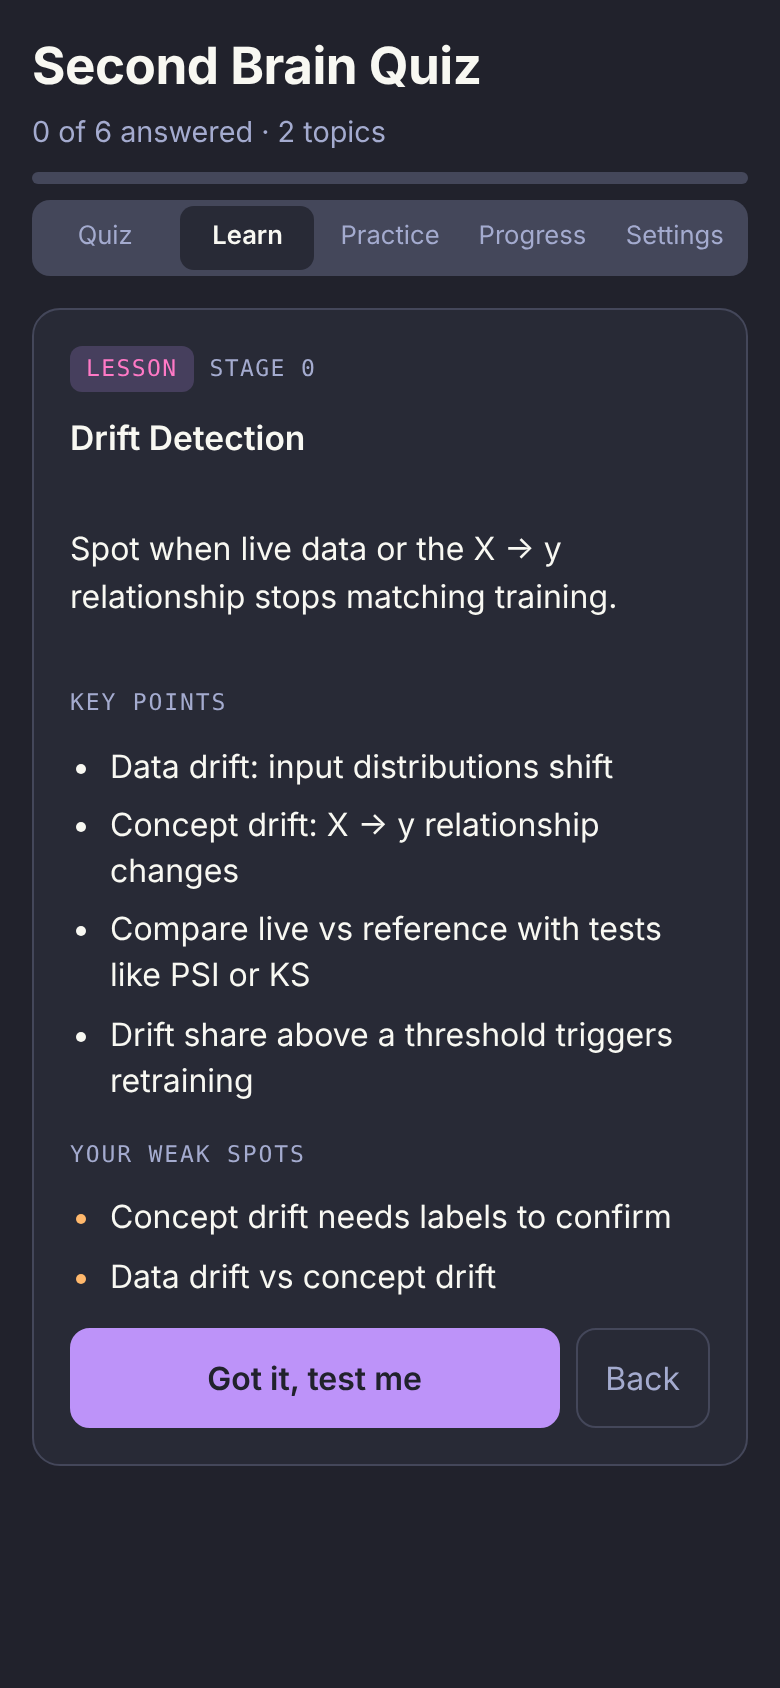
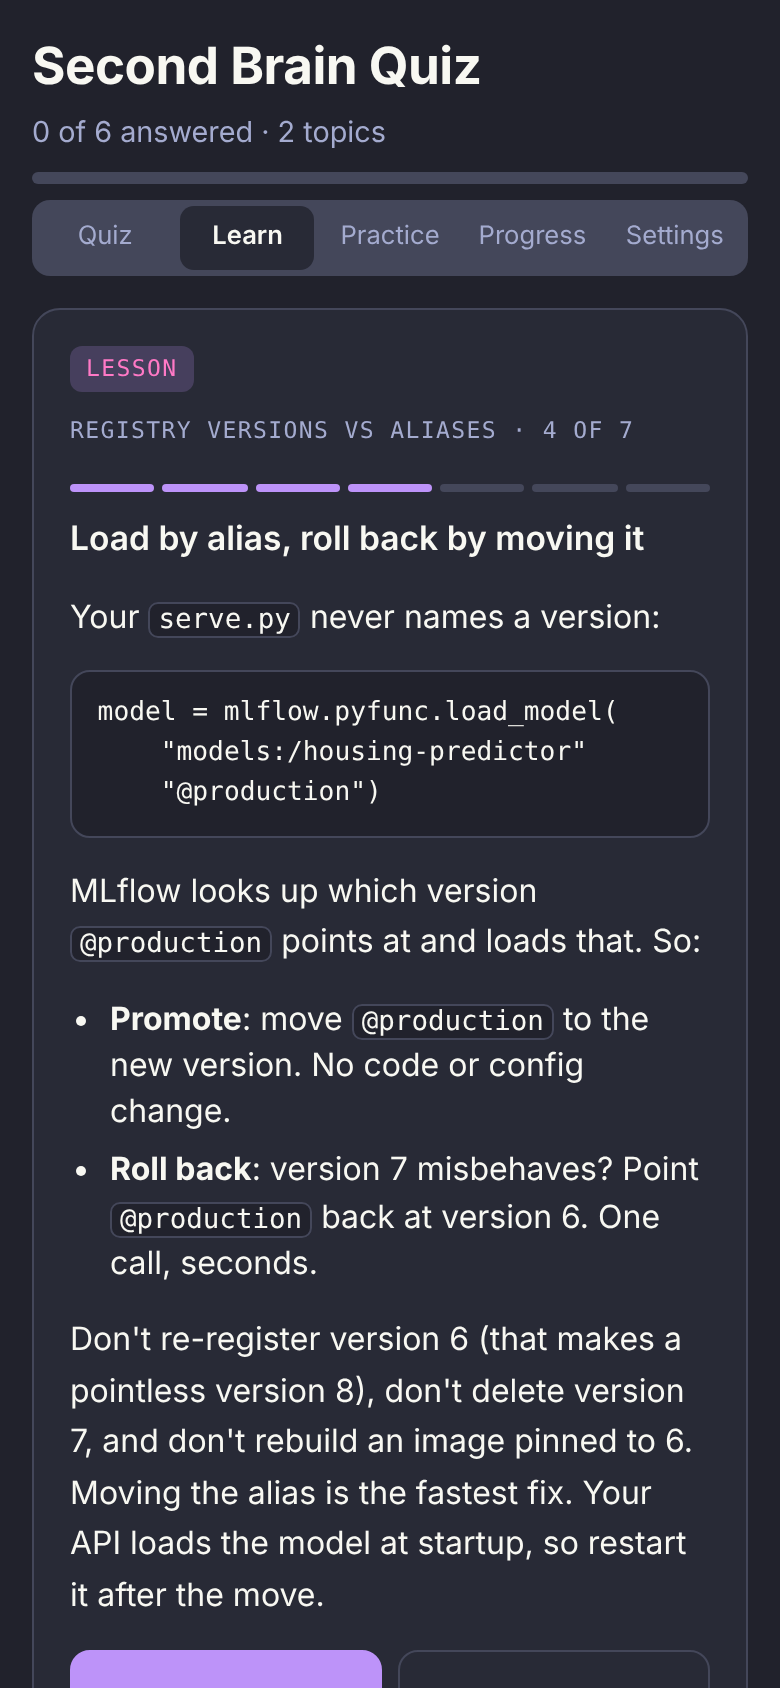
1.13.0: step-by-step lessons in Learn, lessons operation, equal buttons, prompts updated
Claude-Session: https://claude.ai/code/session_01EMdQBoW5wE4vVuz75Yu5Xb

Changed region(s): [[0.0923, 0.2156, 0.8923, 1.0]]

diff --git a/quiz/quiz.html b/quiz/quiz.html
@@ -158,9 +158,13 @@ textarea{font:inherit;width:100%;box-sizing:border-box;min-height:120px;border-r
 .lesson ul{margin:0;padding-left:20px;display:flex;flex-direction:column;gap:6px;line-height:1.45}
 .lesson h3{font:500 .72rem/1 var(--mono);letter-spacing:.08em;text-transform:uppercase;color:var(--muted);margin:6px 0 0}
 .lesson .weak li::marker{color:var(--warn)}.lesson .weak li{color:var(--ink)}
+.lesson p,.lesson li{overflow-wrap:anywhere}.lesson p{margin:0;line-height:1.6}.lesson ol{margin:0;padding-left:22px;display:flex;flex-direction:column;gap:6px;line-height:1.45}
+.lesson b{color:var(--ink)}.lesson .ic{font:.86em var(--mono);background:var(--bg);border:1px solid var(--line);border-radius:5px;padding:0 4px}
+.steps{display:flex;gap:4px}.steps i{flex:1;height:4px;border-radius:2px;background:var(--line)}.steps i.on{background:var(--accent)}
 .dots{display:flex;gap:6px;align-items:center;font:500 .72rem/1 var(--mono);color:var(--muted);letter-spacing:.06em;text-transform:uppercase}
 .dots i{width:10px;height:10px;border-radius:50%;background:var(--line)}.dots i.on{background:var(--good)}
-.row .ghost{min-height:36px;padding:6px 12px}
+.actions>button{flex:1 1 0;min-width:0;text-align:center}   /* every button in a row is the same size */
+.row>button{flex:0 0 88px;min-height:40px;padding:8px 10px;text-align:center}
 .tiles{display:grid;grid-template-columns:repeat(3,1fr);gap:8px}
 .tile{background:var(--surface);border:1px solid var(--line);border-radius:12px;padding:12px;display:flex;flex-direction:column;gap:6px;min-width:0}
 .tile b{font:700 1.5rem/1 var(--display);font-variant-numeric:tabular-nums}
@@ -614,7 +618,7 @@ tabBtns.forEach(b => b.onclick = () => showTab(b.dataset.t));
 showTab("quiz");
 
 // ---------- Practice: one question at a time, swap animation, hard mode, icon ----------
-const VERSION = "1.11.0";
+const VERSION = "1.13.0";
 document.getElementById("version").textContent = `Second Brain Kit v${VERSION}`;
 const ICONS = ["🧠", "🦉", "🐉", "🚀", "⚡", "🔥", "🐺", "🦊", "🐙", "🤖", "🛰", "🗝"];
 let POOL = [], bag = [], pfilter = "all", combo = 0, practiceStarted = false, current = null, hard = false;
@@ -785,7 +789,54 @@ function openLesson(page) {
   lessonOpen = page; lstreak = 0; lused = new Set();
   showLesson(L);
 }
+// Tiny markdown → DOM (no innerHTML): paragraphs, - and 1. lists, ``` code, **bold**, `code`
+function inline(s) {
+  const f = document.createDocumentFragment();
+  s.split(/(\*\*[^*]+\*\*|`[^`]+`)/).forEach(p => {
+    if (!p) return;
+    if (p.startsWith("**") && p.endsWith("**")) f.append(el("b", null, p.slice(2, -2)));
+    else if (p.startsWith("`") && p.endsWith("`")) f.append(el("code", "ic", p.slice(1, -1)));
+    else f.append(p);
+  });
+  return f;
+}
+function md(body) {
+  const out = document.createDocumentFragment(), lines = body.split("\n");
+  let para = [], list = null;
+  const flush = () => { if (para.length) { const p = el("p"); p.append(inline(para.join(" "))); out.append(p); para = []; } list = null; };
+  for (let i = 0; i < lines.length; i++) {
+    const l = lines[i];
+    if (l.startsWith("```")) { flush(); const code = []; while (++i < lines.length && !lines[i].startsWith("```")) code.push(lines[i]); out.append(el("pre", "code", code.join("\n"))); continue; }
+    const m = l.match(/^\s*(-|\d+\.)\s+(.*)$/);
+    if (m) {
+      if (para.length) flush();
+      const tag = m[1] === "-" ? "ul" : "ol";
+      if (!list || list.tagName.toLowerCase() !== tag) { list = el(tag); out.append(list); }
+      const li = el("li"); li.append(inline(m[2])); list.append(li); continue;
+    }
+    if (!l.trim()) { flush(); continue; }
+    list = null; para.push(l.trim());
+  }
+  flush(); return out;
+}
+const stepsOf = m => m.split(/^### /m).map(s => s.trim()).filter(Boolean).map(s => { const nl = s.indexOf("\n"); return { h: nl < 0 ? s : s.slice(0, nl), body: nl < 0 ? "" : s.slice(nl + 1) }; });
+function showStep(L, i) {
+  const S = stepsOf(L.m), s = S[i], c = el("section", "card lesson");
+  const meta = el("div", "meta"); meta.append(el("span", "chip", "Lesson"), el("span", "chip plain", `${L.t} · ${i + 1} of ${S.length}`));
+  const bar = el("div", "steps"); S.forEach((_, k) => bar.append(el("i", k <= i ? "on" : "")));
+  c.append(meta, bar, el("h2", "topic", s.h), md(s.body));
+  if (i === S.length - 1 && L.w?.length) {
+    const u = el("ul", "weak"); L.w.map(x => x.replace(/^\((practice|learn)\)\s*/, "")).forEach(x => u.append(el("li", null, x)));
+    c.append(el("h3", null, "Your weak spots"), u);
+  }
+  const last = i === S.length - 1;
+  const go = el("button", "primary", last ? "Test me" : "Next"); go.onclick = () => last ? check(L) : showStep(L, i + 1);
+  const back = el("button", "ghost", "Back"); back.onclick = () => i ? showStep(L, i - 1) : renderLearn();
+  const row = el("div", "actions"); row.append(go, back); c.append(row);
+  document.getElementById("learnView").replaceChildren(c); window.scrollTo(0, 0);
+}
 function showLesson(L) {
+  if (L.m) return showStep(L, 0);
   const c = el("section", "card lesson");
   const meta = el("div", "meta"); meta.append(el("span", "chip", "Lesson"), el("span", "chip plain", `Stage ${stageOf(L.p)}`));
   c.append(meta, el("h2", "topic", L.t));

diff --git a/template/.sync/test_sync.py b/template/.sync/test_sync.py
@@ -104,7 +104,9 @@ with tempfile.TemporaryDirectory() as d:
     # Learn tab: lesson = summary + key bullets + weak spots, shipped with the bank; learn answers act like practice
     from sync import lesson
     L = lesson("---\nx: 1\n---\n\n# T\n\nOne line summary with [[Link|alias]].\n\n- `a` first\n- second\n\n## Weak spots\n- 2026-10-11: gap one\n- 2026-10-12: (practice) gap two\n\n## My notes\n")
-    assert L == {"s": "One line summary with alias.", "k": ["a first", "second"], "w": ["gap one", "(practice) gap two"]}, L
+    assert L == {"s": "One line summary with alias.", "k": ["a first", "second"], "w": ["gap one", "(practice) gap two"], "m": ""}, L
+    L2 = lesson("# T\n\nsum\n\n## Lesson\n\n### Step one\nText.\n```py\nx = 1\n```\n\n### Step two\nMore.\n\n## Weak spots\n")
+    assert L2["m"].startswith("### Step one") and L2["m"].endswith("More.") and "Weak" not in L2["m"], L2
     assert json.loads((Path(d) / "bank_out" / files[0]).read_text())["topics"][0]["l"]["w"][:2] == ["gap1", "gap2"]
     lr = {"id": "l-1", "version": 1, "data": {"mode": "learn", "page": "wiki/tech/Topic A.md", "verdict": "wrong", "missing": ["learned gap"]}}
     run(v, {**queued, "answers": [lr]}, dt.datetime(2026, 10, 12, 12, 20))

diff --git a/template/.sync/sync.py b/template/.sync/sync.py
@@ -99,7 +99,8 @@ def lesson(text):
     keys = [clean(l[1:]) for l in lines if l.startswith("-")][:6]
     w = re.search(r"^## Weak spots\n(.*?)(?=^## |\Z)", text, re.M | re.S)
     weak = [clean(re.sub(r"^-\s*(\d{4}-\d\d-\d\d:\s*)?", "", l)) for l in (w.group(1) if w else "").splitlines() if l.strip().startswith("-")]
-    return {"s": summary, "k": keys, "w": list(dict.fromkeys(weak))[-5:]}
+    ls = re.search(r"^## Lesson\n(.*?)(?=^## |\Z)", text, re.M | re.S)     # full lesson: ### steps, written once per page
+    return {"s": summary, "k": keys, "w": list(dict.fromkeys(weak))[-5:], "m": ls.group(1).strip() if ls else ""}
 
 
 def entry(text, p, rel, sets):

diff --git a/template/CLAUDE.md b/template/CLAUDE.md
@@ -65,6 +65,9 @@ One-line purpose.
 
 (bullets / numbered steps — concrete, no prose walls)
 
+## Lesson
+(Learn-tab lesson: 4–7 `### ` steps that teach the topic from zero — see §6 lessons)
+
 ## Weak spots
 - what [Your name] got wrong + date (Claude-maintained; quiz targets these first)
 
@@ -108,6 +111,7 @@ After each page is quizzed:
    - Never ask about code the learner can't see ("in your serve.py…"). Either add a `code` field with the snippet (≤10 lines, ≤40 chars wide so it fits a phone) or make the question general. No trivia (ports, file paths, README steps)
    - every question also has `answer` (model answer) + `points` (key points, `points[0]` = core idea) for the optional "Write answers" mode
    - target weak spots first
+   - then write the page's `## Lesson` (see **lessons** below)
 6. **Day-0 check now:** one `teach` question per new concept in chat. Gaps → weak spots.
 7. Pure facts (vocab, ports, flags) → also Anki cards.
 8. Update `_index.md` files, append `log.md`.
@@ -138,12 +142,20 @@ Scoring (in sync.py): correct 1, partial 0.5, wrong 0 → avg ≥0.8 pass, ≥0.
 For material learned before the vault existed (course notes, a project repo, old chats) or files dropped in `raw/inbox/`.
 1. **Scan, don't write yet.** Read the source (READMEs, notes, code structure, tests, configs — skip lockfiles, data, vendored code). Propose a topic list: concept-sized (one idea per page), grouped, max ~25 per batch. Skip topics already in a `_index.md`.
 2. **Self-rate (one form):** per topic → *know it* / *shaky* / *skip*. Brand-new topics → suggest `/ingest` instead (recall works better when fresh).
-3. **Write in batches of 5:** concept page + question bank per topic (same format as ingest). When the source is the user's own project, make `apply` questions about THEIR code ("In your <project>, why does X…?"). Link pages to a `wiki/sources/` page for the project.
+3. **Write in batches of 5:** concept page + `## Lesson` + question bank per topic (same format as ingest). When the source is the user's own project, make `apply` questions about THEIR code, with the snippet in `code`. Link pages to a `wiki/sources/` page for the project.
 4. **Starting point:** *know it* → `stage: 2`, *shaky* → `stage: 0`.
 5. **Stagger reviews:** max 3 new topics due per day (shaky first), `next_review` spread over the following days, so the phone queue never floods.
 6. Publish banks for Practice (see below). Move processed `raw/inbox/` files to `raw/`. Update `_index.md` files, one `log.md` entry (`import | <source>: N topics`).
 
 **Publish banks for Practice** (after writing or changing question banks here): `python3 .sync/sync.py . --export-bank .sync/bank_out`, stage those files, then one ArtifactData `batch` of `set` writes to collection `bank` (doc id = file name without .json) using `file_path` — add `if_version` for shards that already exist (list `bank` with `out_dir` to get versions). Never paste the JSON by hand.
+
+### lessons  ("write lessons", or any `review: true` page without `## Lesson`; also part of ingest/import)
+The Learn tab teaches weak topics from the page's `## Lesson` (placed after the intro bullets, before `## Weak spots`). It must TEACH someone meeting the topic for the first time, on a phone, in 3–5 minutes. Not recall bullets.
+- **Format:** `## Lesson`, then 4–7 steps, each `### <short heading>` = one phone screen (~60–130 words + optional code). Only paragraphs, `- ` / `1. ` lists, fenced code with a language, **bold**, `inline code`. No tables, links, images or other headings.
+- **Code:** ≤12 lines, ≤40 chars per line (wrap by hand so it stays valid), `...` to elide. Quote the learner's REAL code (read the source repo); if there is none, a small realistic example labelled "for example". Never present invented code as theirs.
+- **Shape:** the problem (what breaks without it, a concrete scenario) → the idea (plain words, one analogy only if it helps) → how it works in their code, line by line → more detail as needed → gotchas (use the page's `## Weak spots`) → recap (3–4 bullets, key terms **bold**).
+- Explain every term on first use (assume DevOps background, new to the domain). Short sentences, no filler. Must cover everything the page's question bank asks. Accuracy over flourish.
+- After writing or changing lessons, publish banks for Practice (lessons travel with the bank; reading them costs no tokens).
 
 ### refresh banks  ("refresh banks", or when a sync reports refresh_bank / needs_bank)
 For each flagged page: write 1–2 new question sets (same format, all with options), targeting `## Weak spots` first, and append them to the page's question bank. Never edit sets already used.

diff --git a/README.md b/README.md
@@ -11,7 +11,7 @@ Built on Karpathy's "LLM wiki" idea and the CoderCo *Learn it so it sticks* meth
   <img src="docs/screenshots/4-results.png" width="23%" alt="Results screen showing where each topic moves on the ladder">
 </p>
 <p align="center">
-  <img src="docs/screenshots/8-learn.png" width="23%" alt="Learn tab: a short lesson for a weak topic with key points and your weak spots">
+  <img src="docs/screenshots/8-learn.png" width="23%" alt="Learn tab: a step-by-step lesson with real code, 4 of 7">
   <img src="docs/screenshots/5-progress.png" width="23%" alt="Progress tab: streak, level and XP, activity heatmap, mastery by ladder step, Sync now">
   <img src="docs/screenshots/7-practice.png" width="23%" alt="Practice tab: one question at a time with level, XP, combo and hard mode">
   <img src="docs/screenshots/6-settings.png" width="23%" alt="Settings tab: theme picker with Dracula, Dracula Light, GitHub, Tokyo Night, Catppuccin, Nord and more">
@@ -79,10 +79,11 @@ next sync (auto) ──► scores each topic, moves it up/down the ladder,
 
 ### Learn tab (phone)
 - Lists your weak topics (stage 0–1, missed questions, logged weak spots), most urgent first.
-- Tap one for a short lesson: the page's summary, key points and your weak spots. Built from your vault at sync, so it costs no tokens.
-- **Got it, test me** → questions on that topic. Get **2 right in a row** to clear it; a miss shows why and sends you back to the lesson.
+- Tap one for a **step-by-step lesson** (4–7 short screens): the problem it solves, the idea in plain words, your own code explained line by line, the gotchas you've hit before, and a recap. Claude writes it once per topic into the page's `## Lesson`; reading it costs no tokens.
+- **Test me** → questions on that topic. Get **2 right in a row** to clear it; a miss shows why and sends you back to the lesson.
 - Missing a question in Quiz or Practice shows a **Learn this** button that opens that topic's lesson.
 - Learn never moves the ladder (only Quiz does); misses still become weak spots.
+- Older vault without lessons? Say **write lessons** in a vault session.
 
 ### Practice tab (phone)
 - **One question at a time** from your whole bank, as many as you like, with a smooth swap to the next. Weaker topics come up more often; filter to shaky topics or one topic.

diff --git a/UPDATE_PROMPT.md b/UPDATE_PROMPT.md
@@ -12,5 +12,6 @@ Update my Second Brain to the latest https://github.com/smir22/second-brain-kit.
 4. **Rules:** compare the kit's `template/CLAUDE.md` with my vault's `CLAUDE.md`. Add new or changed sections, keep my name, strictness, standing context and anything I added myself. Show me a short list of what changed before saving.
 5. **Quiz page:** read the kit's `quiz/quiz.html` and publish it to my **existing** quiz page URL (pass it as `url`, so the link, my questions and my history stay), with the capabilities from `SETUP_PROMPT.md` step 4.
 6. **Sync task:** update my scheduled sync task's prompt to the one in `SETUP_PROMPT.md` step 6 (keep my vault folder name, quiz URL and calendar choice). If the task has no ID saved on the quiz page yet, do the "write the task's ID" step from `SETUP_PROMPT.md`.
-7. **Practice bank:** run the "Publish banks for Practice" step from `CLAUDE.md` once, so the Practice tab has my questions straight away.
-8. **Ingest skill:** if `skills/ingest/SKILL.md` changed, propose it as an update to my `ingest` skill.
+7. **Lessons and code questions:** run the `lessons` operation from `CLAUDE.md` for every `review: true` page that has no `## Lesson` yet (batches of 5; read my source repos so lessons quote my real code). Also fix any question that mentions code I can't see: add the snippet as `code`, or make it general. Tell me how many pages you did.
+8. **Practice bank:** run the "Publish banks for Practice" step from `CLAUDE.md` once, so Learn and Practice have my lessons and questions straight away.
+9. **Ingest skill:** if `skills/ingest/SKILL.md` changed, propose it as an update to my `ingest` skill.

diff --git a/SETUP_PROMPT.md b/SETUP_PROMPT.md
@@ -51,4 +51,4 @@ Then run the task once now. If the run can't find the vault, tell me to add my v
 - Weekly plan around my schedule (`plan week`)
 - Apple Reminders / calendar blocks for study sessions
 
-**9. First run:** ask whether I have existing material (a course repo, notes folder or project). If yes, run the vault's `import` operation on it; if not, ask me for one thing I learned recently and run `/ingest` on it, so my first quiz is ready tomorrow. Then show me the "Using it" section of the kit's README in 5 bullets, including: `/ingest` after learning, `import` / `process inbox` for older material, Claude offering "Add X to your quiz?" in vault sessions, and `refresh banks` when a sync flags a topic.
+**9. First run:** ask whether I have existing material (a course repo, notes folder or project). If yes, run the vault's `import` operation on it; if not, ask me for one thing I learned recently and run `/ingest` on it, so my first quiz is ready tomorrow. Every topic gets a step-by-step `## Lesson` (the `lessons` operation) and the banks are published, so the Learn and Practice tabs work straight away. Then show me the "Using it" section of the kit's README in 5 bullets, including: the Learn tab for weak topics, `/ingest` after learning, `import` / `process inbox` for older material, Claude offering "Add X to your quiz?" in vault sessions, and `refresh banks` when a sync flags a topic.

diff --git a/CHANGELOG.md b/CHANGELOG.md
@@ -2,6 +2,14 @@
 
 The quiz page shows its version under **Settings → About**. To update an existing setup, use [`UPDATE_PROMPT.md`](UPDATE_PROMPT.md).
 
+## 1.13.0
+- **Real lessons in Learn:** each topic gets a step-by-step `## Lesson` (problem → idea → your code line by line → gotchas → recap), 4–7 phone screens with Next/Back. New `lessons` operation in `CLAUDE.md`; `/ingest` and `import` write one for every new topic. Say **write lessons** to backfill an older vault.
+- Buttons in a row are now the same size.
+- Long inline code wraps instead of widening the page.
+
+## 1.12.0
+- Lesson renderer: steps, code blocks, lists, bold and inline code (safe, no HTML).
+
 ## 1.11.0
 - **Learn tab:** weak topics get a short lesson (summary, key points, your weak spots) built from the vault at sync, then 2 right in a row to clear. **Learn this** button after any miss in Quiz or Practice. Never moves the ladder.
 - sync.py ships lessons with the question bank and treats Learn answers like Practice.

diff --git a/skills/ingest/SKILL.md b/skills/ingest/SKILL.md
@@ -48,6 +48,7 @@ Keep a tally: fixed vs still shaky.
 - recall: key fact · apply: realistic prod / interview / design scenario · teach: "Explain X to a junior…" (as MCQ: which explanation is right)
 - `points[0]` = core idea. **Set 1 targets the still-shaky gaps**, then the other gaps, then the rest. Validate the JSON loads (3×3).
 - Pure facts (ports, flags, vocab) → also `anki/new-cards.txt`.
+- **Lesson:** also write the page's `## Lesson` for the Learn tab: 4–7 `### ` steps that teach the topic from zero (problem → idea → their real code line by line → gotchas from the weak spots → recap). Follow the vault `CLAUDE.md` **lessons** rules exactly.
 - After writing, publish banks for Practice (see vault `CLAUDE.md`).
 
 ## 6. Wrap up (3 lines)
